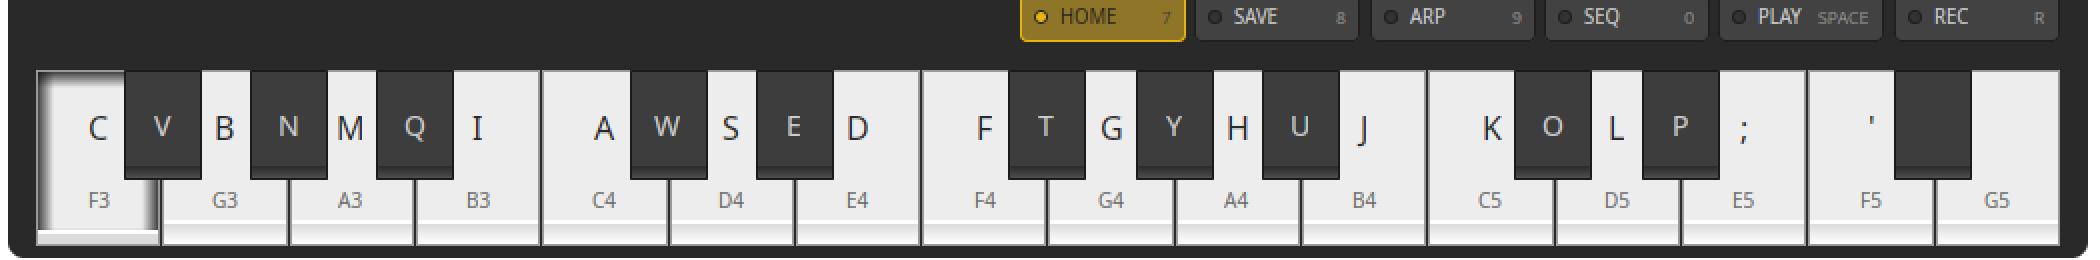
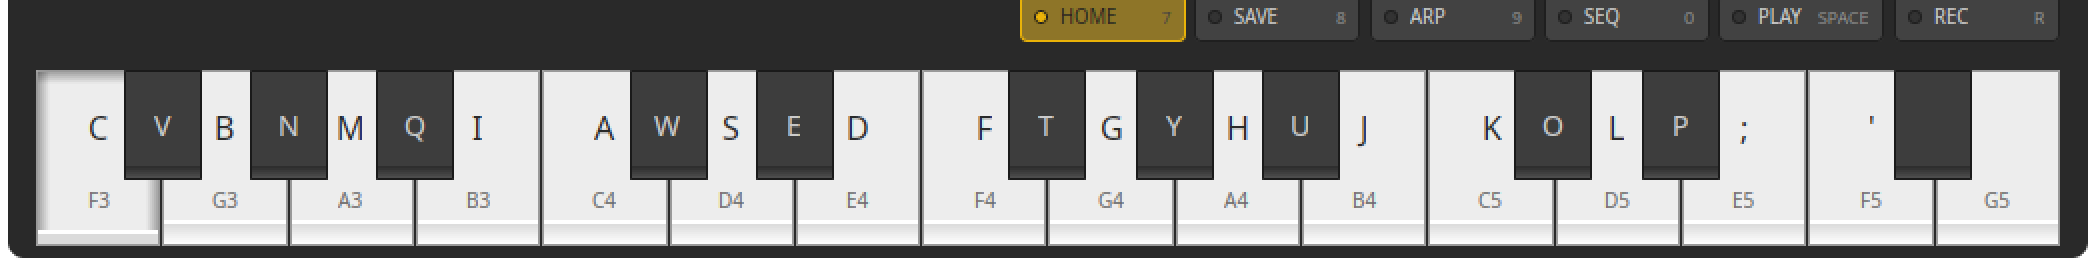
Keep pressed white keys mostly white
Use a thinner, much fainter edge fringe so the pressed key still reads as a white key.

Changed region(s): [[0.0, 0.2769, 0.0619, 0.8923], [0.0619, 0.6769, 0.0929, 0.8923]]

diff --git a/fm1-grid-app/src/panel.rs b/fm1-grid-app/src/panel.rs
@@ -22,9 +22,9 @@ const KEY_MARGIN: f32 = 6.0;
 /// The shaded depth strip at the bottom of each key.
 const WHITE_KEY_DEPTH: f32 = 10.0;
 /// How far a pressed key's accent edge fades into the key face.
-const KEY_PRESS_FRINGE: f32 = 8.0;
+const KEY_PRESS_FRINGE: f32 = 6.0;
 /// The accent opacity at the very edge of a pressed key.
-const KEY_PRESS_FRINGE_ALPHA: f32 = 0.8;
+const KEY_PRESS_FRINGE_ALPHA: f32 = 0.35;
 /// The lit lip just above a white key's shade strip.
 const WHITE_KEY_LIP: f32 = 2.0;
 const BLACK_KEY_DEPTH: f32 = 6.0;
